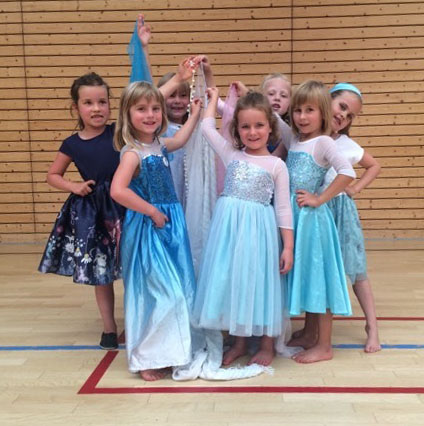
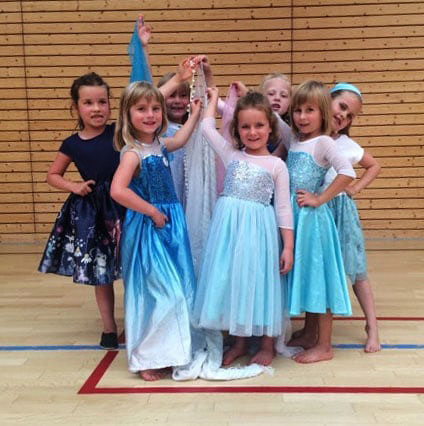
new pic for group3

diff --git a/index.html b/index.html
@@ -310,7 +310,7 @@
                       <q-card-section class="text-left">
                         <div class="row">
 
-                          <div class="col-8 q-pl-md q-pr-lg">
+                          <div class="col-7 col-lg-7 col-md-6 col-sm-12 col-xs-12 q-pl-md q-pr-lg">
                             <div class="row">
                               <div class="text-caption text-white q-mt-sm">
                                 Kids ab 8
@@ -336,10 +336,10 @@
                             </div>
                           </div>
                           <!-- <div class="col-2 q-py-md q-pl-lg q-pr-md"> -->
-                          <div class="col-4 q-py-md q-px-md">
-                            <div class="row q-pb-xs">
+                            <div class="col-5 col-lg-5 col-md-6 col-sm-12 col-xs-12 q-py-md q-px-md">
+                            <div class="row q-py-sm justify-center">
                               <!-- <a href="https://linktomoreinfo.org" target="_blank"> -->
-                                <q-img style="height: 300px; width: 300px; align-items: flex-end;" src="./img/kids_3-6_2_cut.jpg" >
+                                <q-img style="width: 500px; align-items: flex-end;" src="./img/kids_5-8_3_rp_cut.jpg" >
                                 </q-img>
                               <!-- </a> -->
                             </div>
